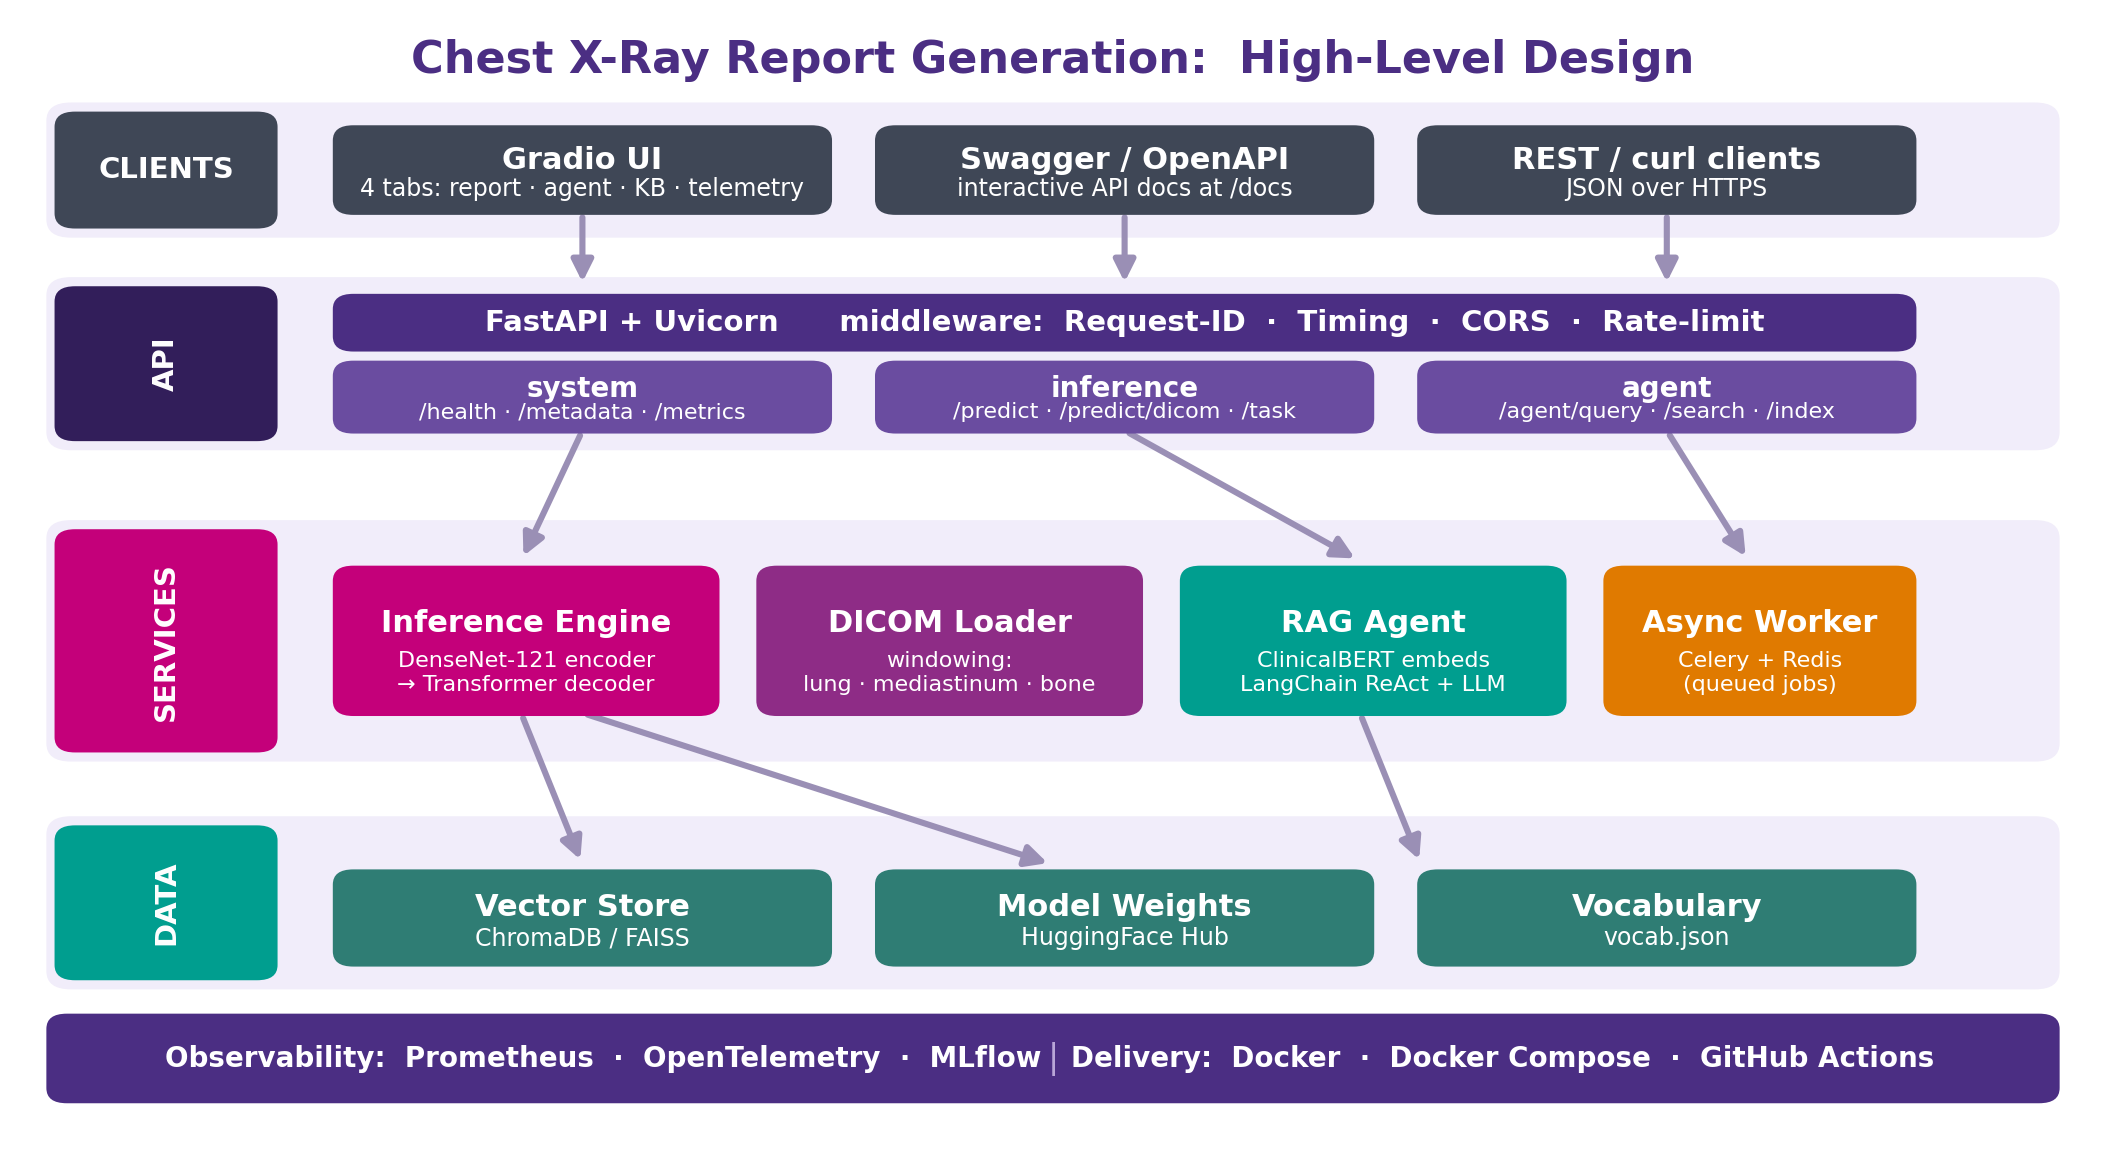
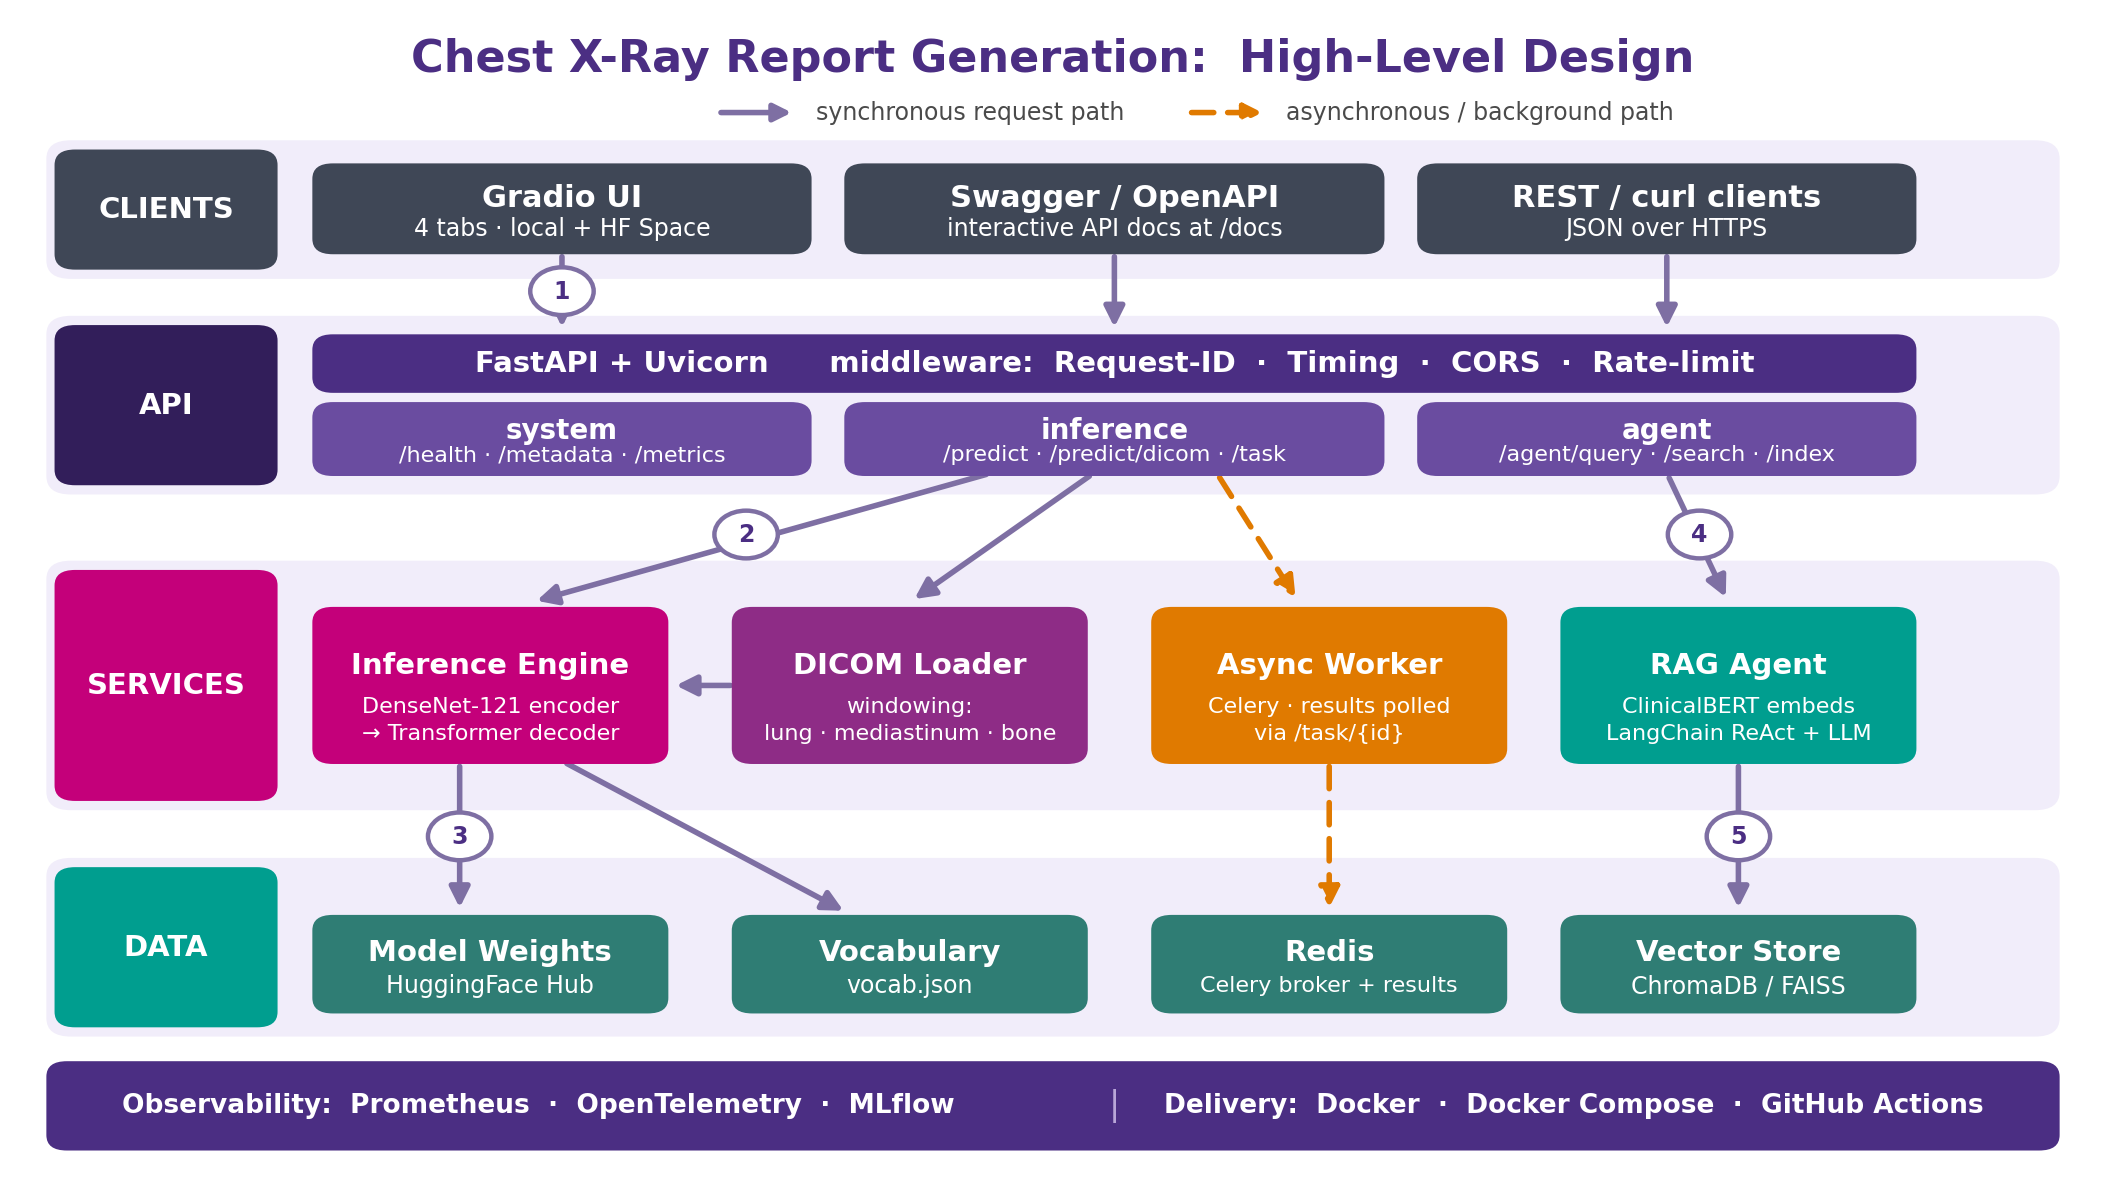
Fix HLD wiring, add structured report output and model status indicator
HLD diagram (deliverables/make_hld.py):
- Correct API-to-service wiring to match backend/main.py. Previously the
  system router pointed at the Inference Engine, inference pointed at the
  RAG Agent, and agent pointed at the Async Worker -- all three were wrong.
- Fix data ownership: the Inference Engine reads model weights and vocab,
  the RAG Agent owns the vector store. These were swapped.
- Connect the previously orphaned DICOM Loader; add Redis as the Celery
  broker and result backend.
- Distinguish synchronous from asynchronous paths, add a legend and
  numbered flow markers, and reorder service columns so no arrows cross.

Report generation (space/app.py):
- Lay the model's single-line caption out in standard radiology sections
  (INDICATION, TECHNIQUE, FINDINGS, IMPRESSION) with a provenance block
  that states which text came from the model and which is template or
  knowledge-base derived.
- Surface model load state in the UI (parameters, device, vocab size,
  checkpoint epoch) and disable the generate button when weights are
  absent. Previously load status was only printed to the console.
- Return the raw model output alongside the formatted report.

Regenerate the report and deck so both embed the corrected diagram.

diff --git a/deliverables/make_hld.py b/deliverables/make_hld.py
@@ -1,26 +1,42 @@
 """
 Render a clean High-Level Design (HLD) architecture diagram as a PNG,
 used in both the Word report and the PowerPoint deck.
+
+The wiring mirrors the real FastAPI app in backend/main.py:
+
+    tags=["system"]     /health, /metadata, /metrics      -> no service dependency
+    tags=["inference"]  /predict, /predict/dicom,
+                        /preview/dicom, /task/{task_id}   -> Inference Engine, DICOM Loader,
+                                                             Celery worker (async)
+    tags=["agent"]      /agent/query, /search,
+                        /index, /stats                    -> RAG Agent
+
+    Inference Engine -> model weights + vocab.json
+    RAG Agent        -> vector store
+    Celery worker    -> Redis (broker AND result backend, see backend/celery_app.py)
 """
 import matplotlib
 matplotlib.use("Agg")
 import matplotlib.pyplot as plt
-from matplotlib.patches import FancyBboxPatch, FancyArrowPatch
+from matplotlib.patches import FancyBboxPatch, FancyArrowPatch, Circle
 import os
 
 PURPLE = "#4B2E83"
 PURPLE_D = "#321E5A"
+PURPLE_L = "#6A4CA0"
 MAGENTA = "#C4007A"
+PLUM = "#8E2C86"
 TEAL = "#009E8F"
+TEAL_D = "#2F7D74"
 ORANGE = "#E07A00"
 SLATE = "#3F4756"
 BAND = "#F1EDFA"
-GREY = "#6B6B6B"
-LINE = "#9A8FB5"
+LINE = "#7E6FA3"
+ASYNC = "#E07A00"
 
-fig, ax = plt.subplots(figsize=(13.2, 7.1), dpi=200)
+fig, ax = plt.subplots(figsize=(13.2, 7.4), dpi=200)
 ax.set_xlim(0, 100)
-ax.set_ylim(0, 72)
+ax.set_ylim(0, 74)
 ax.axis("off")
 ax.set_aspect("auto")
 
@@ -28,82 +44,125 @@ ax.set_aspect("auto")
 def band(y, h, label, color):
     ax.add_patch(FancyBboxPatch((1, y), 98, h, boxstyle="round,pad=0.2,rounding_size=1.2",
                                 fc=BAND, ec="none", zorder=1))
-    tab = FancyBboxPatch((1.4, y + 0.6), 10.5, h - 1.2, boxstyle="round,pad=0.2,rounding_size=1.0",
-                         fc=color, ec="none", zorder=2)
-    ax.add_patch(tab)
+    ax.add_patch(FancyBboxPatch((1.4, y + 0.6), 10.5, h - 1.2,
+                                boxstyle="round,pad=0.2,rounding_size=1.0",
+                                fc=color, ec="none", zorder=2))
     ax.text(6.65, y + h / 2, label, ha="center", va="center", color="white",
-            fontsize=10.5, fontweight="bold", rotation=90 if h > 10 else 0, zorder=3)
+            fontsize=10.5, fontweight="bold", zorder=3)
 
 
 def box(x, y, w, h, title, sub=None, fc=PURPLE, tc="white", fs=11, sfs=8.5):
     ax.add_patch(FancyBboxPatch((x, y), w, h, boxstyle="round,pad=0.2,rounding_size=1.0",
                                 fc=fc, ec="none", zorder=4))
     if sub:
-        ax.text(x + w / 2, y + h * 0.62, title, ha="center", va="center", color=tc,
+        ax.text(x + w / 2, y + h * 0.63, title, ha="center", va="center", color=tc,
                 fontsize=fs, fontweight="bold", zorder=5)
-        ax.text(x + w / 2, y + h * 0.28, sub, ha="center", va="center", color=tc,
-                fontsize=sfs, zorder=5)
+        ax.text(x + w / 2, y + h * 0.27, sub, ha="center", va="center", color=tc,
+                fontsize=sfs, zorder=5, linespacing=1.45)
     else:
         ax.text(x + w / 2, y + h / 2, title, ha="center", va="center", color=tc,
                 fontsize=fs, fontweight="bold", zorder=5)
 
 
-def arrow(x1, y1, x2, y2):
-    ax.add_patch(FancyArrowPatch((x1, y1), (x2, y2), arrowstyle="-|>", mutation_scale=16,
-                                 color=LINE, lw=2.2, zorder=3))
+def arrow(x1, y1, x2, y2, dashed=False, color=None):
+    ax.add_patch(FancyArrowPatch(
+        (x1, y1), (x2, y2), arrowstyle="-|>", mutation_scale=15,
+        color=color or (ASYNC if dashed else LINE), lw=2.0,
+        linestyle=(0, (4, 2.5)) if dashed else "solid", zorder=3))
 
 
-# Title
-ax.text(50, 70, "Chest X-Ray Report Generation:  High-Level Design",
+def step(n, x, y):
+    """Numbered badge so the diagram can be narrated in order."""
+    ax.add_patch(Circle((x, y), 1.55, fc="white", ec=LINE, lw=1.6, zorder=6))
+    ax.text(x, y, str(n), ha="center", va="center", color=PURPLE,
+            fontsize=8.5, fontweight="bold", zorder=7)
+
+
+# ---- Title + legend --------------------------------------------------------
+ax.text(50, 72.1, "Chest X-Ray Report Generation:  High-Level Design",
         ha="center", va="center", fontsize=16, fontweight="bold", color=PURPLE)
 
+ax.add_patch(FancyArrowPatch((33.5, 68.6), (37.5, 68.6), arrowstyle="-|>",
+                             mutation_scale=13, color=LINE, lw=2.0))
+ax.text(38.4, 68.6, "synchronous request path", ha="left", va="center",
+        fontsize=8.5, color="#4A4A4A")
+ax.add_patch(FancyArrowPatch((56.5, 68.6), (60.5, 68.6), arrowstyle="-|>",
+                             mutation_scale=13, color=ASYNC, lw=2.0,
+                             linestyle=(0, (4, 2.5))))
+ax.text(61.4, 68.6, "asynchronous / background path", ha="left", va="center",
+        fontsize=8.5, color="#4A4A4A")
+
 # ---- Bands -----------------------------------------------------------------
-band(58.5, 8.5, "CLIENTS", SLATE)
-band(44.5, 11.0, "API", PURPLE_D)
-band(24.0, 15.5, "SERVICES", MAGENTA)
-band(9.0, 11.0, "DATA", TEAL)
+band(58.0, 8.6, "CLIENTS", SLATE)
+band(44.0, 11.2, "API", PURPLE_D)
+band(23.5, 15.8, "SERVICES", MAGENTA)
+band(8.8, 11.2, "DATA", TEAL)
 
 # ---- Clients ---------------------------------------------------------------
-box(15, 60, 24, 5.5, "Gradio UI", "4 tabs: report · agent · KB · telemetry", fc=SLATE)
-box(41.5, 60, 24, 5.5, "Swagger / OpenAPI", "interactive API docs at /docs", fc=SLATE)
-box(68, 60, 24, 5.5, "REST / curl clients", "JSON over HTTPS", fc=SLATE)
+box(14, 59.6, 24, 5.5, "Gradio UI", "4 tabs · local + HF Space", fc=SLATE)
+box(40, 59.6, 26, 5.5, "Swagger / OpenAPI", "interactive API docs at /docs", fc=SLATE)
+box(68, 59.6, 24, 5.5, "REST / curl clients", "JSON over HTTPS", fc=SLATE)
 
 # ---- API layer -------------------------------------------------------------
-box(15, 51, 77, 3.4, "FastAPI + Uvicorn      middleware:  Request-ID  ·  Timing  ·  CORS  ·  Rate-limit",
+box(14, 50.6, 78, 3.4,
+    "FastAPI + Uvicorn      middleware:  Request-ID  ·  Timing  ·  CORS  ·  Rate-limit",
     fc=PURPLE, fs=10.5)
-box(15, 45.6, 24, 4.4, "system", "/health · /metadata · /metrics", fc="#6A4CA0", fs=10, sfs=8)
-box(41.5, 45.6, 24, 4.4, "inference", "/predict · /predict/dicom · /task", fc="#6A4CA0", fs=10, sfs=8)
-box(68, 45.6, 24, 4.4, "agent", "/agent/query · /search · /index", fc="#6A4CA0", fs=10, sfs=8)
+box(14, 45.2, 24, 4.4, "system", "/health · /metadata · /metrics",
+    fc=PURPLE_L, fs=10, sfs=8)
+box(40, 45.2, 26, 4.4, "inference", "/predict · /predict/dicom · /task",
+    fc=PURPLE_L, fs=10, sfs=8)
+box(68, 45.2, 24, 4.4, "agent", "/agent/query · /search · /index",
+    fc=PURPLE_L, fs=10, sfs=8)
 
 # ---- Services --------------------------------------------------------------
-box(15, 27, 18.5, 9.5, "Inference Engine", "DenseNet-121 encoder\n→ Transformer decoder", fc=MAGENTA, sfs=8)
-box(35.7, 27, 18.5, 9.5, "DICOM Loader", "windowing:\nlung · mediastinum · bone", fc="#8E2C86", sfs=8)
-box(56.4, 27, 18.5, 9.5, "RAG Agent", "ClinicalBERT embeds\nLangChain ReAct + LLM", fc=TEAL, sfs=8)
-box(77.1, 27, 14.9, 9.5, "Async Worker", "Celery + Redis\n(queued jobs)", fc=ORANGE, sfs=8)
+# Column order is chosen so that every arrow below runs without crossing another.
+box(14, 26.5, 17, 9.8, "Inference Engine",
+    "DenseNet-121 encoder\n→ Transformer decoder", fc=MAGENTA, fs=10.5, sfs=8)
+box(34.5, 26.5, 17, 9.8, "DICOM Loader",
+    "windowing:\nlung · mediastinum · bone", fc=PLUM, fs=10.5, sfs=8)
+box(55, 26.5, 17, 9.8, "Async Worker",
+    "Celery · results polled\nvia /task/{id}", fc=ORANGE, fs=10.5, sfs=8)
+box(75, 26.5, 17, 9.8, "RAG Agent",
+    "ClinicalBERT embeds\nLangChain ReAct + LLM", fc=TEAL, fs=10.5, sfs=8)
 
 # ---- Data ------------------------------------------------------------------
-box(15, 10.5, 24, 6, "Vector Store", "ChromaDB / FAISS", fc="#2F7D74")
-box(41.5, 10.5, 24, 6, "Model Weights", "HuggingFace Hub", fc="#2F7D74")
-box(68, 10.5, 24, 6, "Vocabulary", "vocab.json", fc="#2F7D74")
+box(14, 10.3, 17, 6.0, "Model Weights", "HuggingFace Hub", fc=TEAL_D, fs=10.5)
+box(34.5, 10.3, 17, 6.0, "Vocabulary", "vocab.json", fc=TEAL_D, fs=10.5)
+box(55, 10.3, 17, 6.0, "Redis", "Celery broker + results", fc=TEAL_D, fs=10.5, sfs=8)
+box(75, 10.3, 17, 6.0, "Vector Store", "ChromaDB / FAISS", fc=TEAL_D, fs=10.5)
 
-# ---- Arrows ----------------------------------------------------------------
-for x in (27, 53.5, 80):
-    arrow(x, 60, x, 55.0)          # clients -> api
-arrow(27, 45.6, 24, 37.0)          # api -> inference engine
-arrow(53.5, 45.6, 65, 37.0)        # api -> rag agent
-arrow(80, 45.6, 84, 37.0)          # api -> async worker
-arrow(65, 27, 68, 17.0)            # rag -> vector store
-arrow(24, 27, 27, 17.0)            # engine -> model weights (approx)
-arrow(27, 27, 50, 17.0)            # engine -> weights
+# ---- Arrows: clients -> API ------------------------------------------------
+for x in (26, 53, 80):
+    arrow(x, 59.6, x, 54.3)
+step(1, 26, 57.0)
+
+# ---- Arrows: API -> services -----------------------------------------------
+arrow(47, 45.2, 24.5, 36.8)              # inference -> Inference Engine
+arrow(52, 45.2, 43, 36.8)                # inference -> DICOM Loader
+arrow(58, 45.2, 62, 36.8, dashed=True)   # inference -> Async Worker (enqueue)
+arrow(80, 45.2, 83, 36.8)                # agent     -> RAG Agent
+step(2, 35.0, 41.2)
+step(4, 81.6, 41.2)
+
+# DICOM Loader hands the windowed tensor to the Inference Engine
+arrow(34.5, 31.4, 31.3, 31.4)
+
+# ---- Arrows: services -> data ----------------------------------------------
+arrow(21, 26.5, 21, 16.6)                # engine -> model weights
+arrow(26, 26.5, 40, 16.6)                # engine -> vocabulary
+arrow(63.5, 26.5, 63.5, 16.6, dashed=True)   # worker    -> redis
+arrow(83.5, 26.5, 83.5, 16.6)            # RAG agent -> vector store
+step(3, 21, 21.6)
+step(5, 83.5, 21.6)
 
 # ---- Cross-cutting footer --------------------------------------------------
-ax.add_patch(FancyBboxPatch((1, 1.5), 98, 5.5, boxstyle="round,pad=0.2,rounding_size=1.0",
+ax.add_patch(FancyBboxPatch((1, 1.4), 98, 5.4, boxstyle="round,pad=0.2,rounding_size=1.0",
                             fc=PURPLE, ec="none", zorder=2))
-ax.text(28, 4.25, "Observability:  Prometheus  ·  OpenTelemetry  ·  MLflow",
-        ha="center", va="center", color="white", fontsize=10, fontweight="bold")
-ax.text(50, 4.25, "|", ha="center", va="center", color="#B9A6D8", fontsize=12)
-ax.text(72, 4.25, "Delivery:  Docker  ·  Docker Compose  ·  GitHub Actions",
-        ha="center", va="center", color="white", fontsize=10, fontweight="bold")
+ax.text(4.5, 4.1, "Observability:  Prometheus  ·  OpenTelemetry  ·  MLflow",
+        ha="left", va="center", color="white", fontsize=9.5, fontweight="bold")
+ax.text(53, 4.1, "|", ha="center", va="center", color="#B9A6D8", fontsize=12)
+ax.text(95.5, 4.1, "Delivery:  Docker  ·  Docker Compose  ·  GitHub Actions",
+        ha="right", va="center", color="white", fontsize=9.5, fontweight="bold")
 
 out = os.path.join(os.path.dirname(__file__), "hld_architecture.png")
 plt.savefig(out, bbox_inches="tight", pad_inches=0.15, facecolor="white")

diff --git a/space/app.py b/space/app.py
@@ -13,6 +13,7 @@ Educational / research demo only. Not FDA-cleared for clinical use.
 import os
 import json
 import math
+import re
 
 import numpy as np
 import torch
@@ -122,13 +123,27 @@ model = RadiologyReportModel(
 ).to(device)
 
 MODEL_OK = False
+MODEL_STATUS = ""
 if os.path.exists(BEST_MODEL_PATH):
-    ckpt = torch.load(BEST_MODEL_PATH, map_location=device)
-    model.load_state_dict(ckpt["model_state_dict"])
-    model.eval()
-    MODEL_OK = True
-    print("Report model loaded.")
+    try:
+        ckpt = torch.load(BEST_MODEL_PATH, map_location=device)
+        model.load_state_dict(ckpt["model_state_dict"])
+        model.eval()
+        MODEL_OK = True
+        _n_params = sum(p.numel() for p in model.parameters())
+        MODEL_STATUS = (
+            f"🟢 **Model loaded** — {_n_params/1e6:.1f}M parameters · device `{device}` · "
+            f"vocab {len(word2idx)} tokens · checkpoint epoch {ckpt.get('epoch', '?')}"
+        )
+        print("Report model loaded.")
+    except Exception as exc:
+        MODEL_STATUS = f"🔴 **Model failed to load** — {type(exc).__name__}: {exc}"
+        print("ERROR: model load failed:", exc)
 else:
+    MODEL_STATUS = (
+        f"🔴 **Model weights not found** — expected `{BEST_MODEL_PATH}`. "
+        "Report generation is disabled; the other tabs still work."
+    )
     print("WARNING: model weights not found.")
 
 transform = transforms.Compose([
@@ -140,15 +155,19 @@ transform = transforms.Compose([
 
 
 def predict_report(image):
+    """Return (structured report, raw model output) for the Report Generation tab."""
     if image is None:
-        return "Please upload a chest X-ray image."
+        return "Please upload a chest X-ray image.", ""
     if not MODEL_OK:
-        return "Model weights are not available on this Space."
+        return "Model weights are not available on this Space.", ""
     if image.mode != "RGB":
         image = image.convert("RGB")
     img_tensor = transform(image).to(device)
-    report = model.generate(img_tensor, word2idx, idx2word, max_len=CONFIG["max_len"], device=device)
-    return report if report.strip() else "(model produced an empty report; try another image)"
+    raw = model.generate(img_tensor, word2idx, idx2word,
+                         max_len=CONFIG["max_len"], device=device)
+    if not raw.strip():
+        return "(model produced an empty report; try another image)", ""
+    return format_report(raw), raw.strip()
 
 
 # ============================================================================
@@ -199,6 +218,70 @@ SYNONYMS = {
     "collapsed lung": "pneumothorax", "lung infection": "pneumonia",
     "fluid in the lungs": "edema", "collapse": "atelectasis",
 }
+
+# ---------------------------------------------------------------------------
+# Report structuring
+#
+# The vision model is a *caption* model: it was trained on the numbered
+# Impression lines of the IU X-ray corpus, so it emits one short sentence
+# (e.g. "1. no acute radiographic cardiopulmonary process.") and its vocabulary
+# contains no section headings at all. The helpers below lay that single line
+# out in standard radiology-report sections. Anything not produced by the model
+# is drawn from FINDINGS_KB and is labelled as such in the provenance block, so
+# the demo never passes curated text off as a model prediction.
+# ---------------------------------------------------------------------------
+
+def detect_finding(text: str):
+    """Return the FINDINGS_KB key mentioned in `text`, or None."""
+    low = (text or "").lower()
+    for phrase, canonical in SYNONYMS.items():
+        if phrase in low:
+            return canonical
+    for key in FINDINGS_KB:
+        if key in low:
+            return key
+    return None
+
+
+def format_report(raw: str) -> str:
+    """Lay the model's single-line output out as a sectioned radiology report."""
+    impression = (raw or "").strip()
+    # the corpus numbers its impression lines ("1. ..."); strip for re-numbering
+    body = re.sub(r"^\s*\d+\s*\.\s*", "", impression).strip()
+    body = re.sub(r"\s+\.", ".", body)            # stray " ." from the decoder
+    body = re.sub(r"\s{2,}", " ", body).strip()
+    if body and not body.endswith("."):
+        body += "."
+
+    finding = detect_finding(body)
+    if finding:
+        findings_text = FINDINGS_KB[finding]
+        findings_src = f"expanded from knowledge base (detected: {finding})"
+    else:
+        findings_text = (
+            "The model did not name a specific abnormality in its output. "
+            "No finding label matched the curated knowledge base, so no "
+            "descriptive findings paragraph is asserted here."
+        )
+        findings_src = "no finding label detected"
+
+    return (
+        "CHEST RADIOGRAPH — AI-GENERATED DRAFT\n"
+        + "=" * 58 + "\n\n"
+        "INDICATION:\n  Not provided (demonstration input).\n\n"
+        "TECHNIQUE:\n  Single frontal chest radiograph.\n\n"
+        f"FINDINGS:\n  {findings_text}\n\n"
+        f"IMPRESSION:\n  1. {body.capitalize() if body else 'No impression generated.'}\n\n"
+        + "-" * 58 + "\n"
+        "PROVENANCE\n"
+        f"  Model output (verbatim) : {impression!r}\n"
+        f"  Impression              : the model's own output, re-numbered\n"
+        f"  Findings                : {findings_src}\n"
+        "  Indication / Technique  : fixed template text, not model output\n\n"
+        "Educational demonstration only. Not FDA-cleared. "
+        "Every draft requires radiologist review."
+    )
+
 
 _STATE = {"embed": None, "backend": None, "corpus_emb": None}
 
@@ -344,14 +427,18 @@ with gr.Blocks(title="Chest X-Ray Report Generation + Clinical Agent",
     with gr.Tabs():
         # ---- Tab 1: Report Generation ----
         with gr.Tab("📄 Report Generation"):
-            gr.Markdown("Upload a chest X-ray. The vision encoder and Transformer decoder generate a draft report.")
+            gr.Markdown("Upload a chest X-ray. The vision encoder and Transformer decoder generate a draft report, "
+                        "which is then laid out in standard radiology-report sections.")
+            gr.Markdown(MODEL_STATUS)
             with gr.Row():
                 with gr.Column():
                     img_in = gr.Image(type="pil", label="Chest X-Ray (JPEG / PNG)")
-                    gen_btn = gr.Button("Generate report", variant="primary")
+                    gen_btn = gr.Button("Generate report", variant="primary",
+                                        interactive=MODEL_OK)
                 with gr.Column():
-                    report_out = gr.Textbox(label="Generated Radiology Report", lines=8)
-            gen_btn.click(predict_report, inputs=img_in, outputs=report_out)
+                    report_out = gr.Textbox(label="Structured Radiology Report", lines=18)
+                    raw_out = gr.Textbox(label="Raw model output (verbatim)", lines=2)
+            gen_btn.click(predict_report, inputs=img_in, outputs=[report_out, raw_out])
 
         # ---- Tab 2: Clinical Agent ----
         with gr.Tab("🤖 Clinical Agent"):

diff --git a/deliverables/generate_script.py b/deliverables/generate_script.py
@@ -182,9 +182,9 @@ slidetag("[Tab 3: Knowledge Base - optional, ~15 sec]", "")
 line("The knowledge base tab lets me add reports and search them by meaning, not just keywords. This is "
      "the retrieval part of the RAG system.")
 
-slidetag("[Tab 4: System & Telemetry - optional, ~10 sec]", "")
-line("And finally, there's a system tab showing live health and metrics, which is the production "
-     "monitoring side.")
+slidetag("[Tab 4: About - optional, ~10 sec]", "")
+line("And the About tab explains how the system works, and includes the disclaimer that this is a "
+     "research demo, not a cleared clinical tool.")
 
 line("So in one demo, you can see the full pipeline: an image becomes a report, and the report becomes "
      "something you can ask questions about, with the answers grounded in real data.")

diff --git a/deliverables/generate_slides.py b/deliverables/generate_slides.py
@@ -370,7 +370,7 @@ demo = [
     ("Report Generation", "Upload an X-ray and get a generated radiology report", MAGENTA),
     ("Clinical Agent", "Ask a clinical question, see the step-by-step reasoning and a grounded answer", PURPLE),
     ("Knowledge Base", "Add reports, search by meaning, and manage the vector store", TEAL),
-    ("System and Telemetry", "Live health, Prometheus metrics, OpenTelemetry status", RGBColor(0xE0,0x7A,0x00)),
+    ("About", "How the system works, with the educational research disclaimer", RGBColor(0xE0,0x7A,0x00)),
 ]
 y = Inches(1.8)
 for title, txt, col in demo: